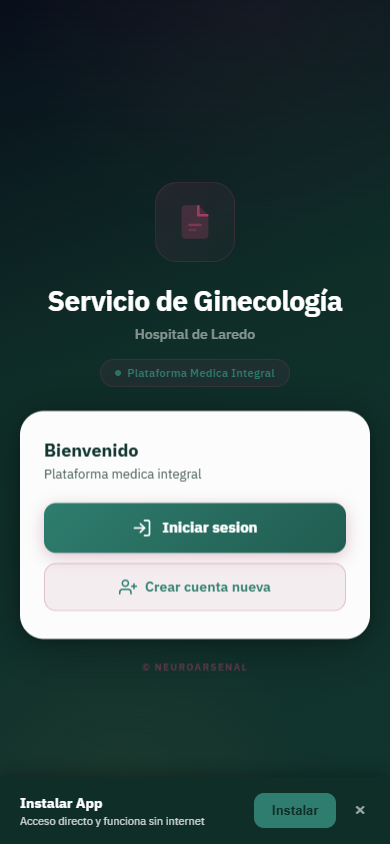
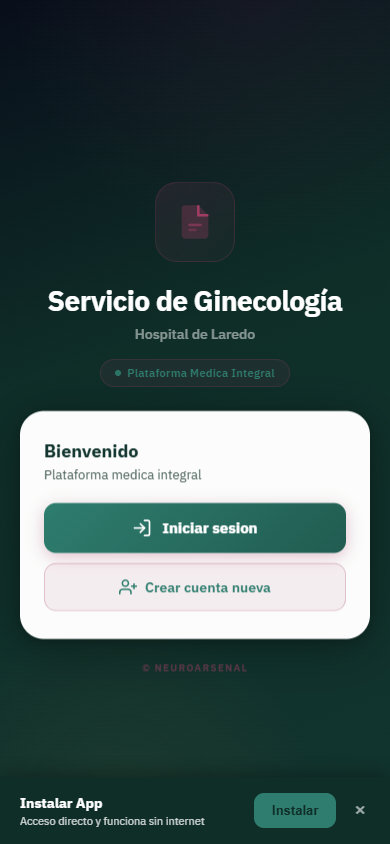
fix(qx): la lista y la ficha abierta dejan de mostrar cosas distintas
Tras cada recarga, QX_ACTUAL seguia apuntando al objeto viejo mientras la
lista usaba filas nuevas: eran dos copias de la misma paciente y podian
discrepar. Ahora quedan siempre en el mismo objeto.

Cual gana depende de por que se recargo. En la recarga silenciosa de fondo
gana la ficha: si el usuario acaba de tildar algo y la recarga se cruzo con
esa escritura, la fila del servidor puede venir sin el cambio y la tilde se
veria saltar hacia atras. En una recarga pedida a proposito gana el
servidor, que es lo que el usuario fue a buscar.

diff --git a/index.html b/index.html
@@ -6695,12 +6695,22 @@ async function qxLoad(opciones){
     return;
   }
   QX_PACIENTES = res.data || [];
-  // La ficha abierta apuntaba al objeto viejo, que ya no esta en la lista: los
-  // cambios que se le hicieran despues no se veian reflejados arriba hasta la
-  // siguiente recarga. Se la vuelve a apuntar a la fila recien traida.
+  // La ficha abierta apuntaba al objeto viejo, que ya no estaba en la lista:
+  // la lista y el detalle mostraban cosas distintas de la misma paciente.
+  // Ahora quedan siempre en el MISMO objeto.
+  //
+  // Cual de los dos gana depende de por que se recargo. En una recarga
+  // silenciosa (la de fondo, despues de un cambio) gana el objeto de la ficha:
+  // si el usuario acaba de tildar algo y la recarga se cruzo con esa escritura,
+  // la fila del servidor puede venir sin ese cambio y la tilde se veria
+  // "saltar" hacia atras. En una recarga pedida a proposito gana el servidor,
+  // que es lo que el usuario fue a buscar.
   if (QX_ACTUAL && QX_ACTUAL.id){
-    var vigente = QX_PACIENTES.find(function(x){ return x.id === QX_ACTUAL.id; });
-    if (vigente) QX_ACTUAL = vigente;
+    var iAct = QX_PACIENTES.findIndex(function(x){ return x.id === QX_ACTUAL.id; });
+    if (iAct >= 0){
+      if (silencioso) QX_PACIENTES[iAct] = QX_ACTUAL;
+      else QX_ACTUAL = QX_PACIENTES[iAct];
+    }
   }
   if (!QX_AUTORES_OK){
     var w = await sb.from('workers').select('id,name');
